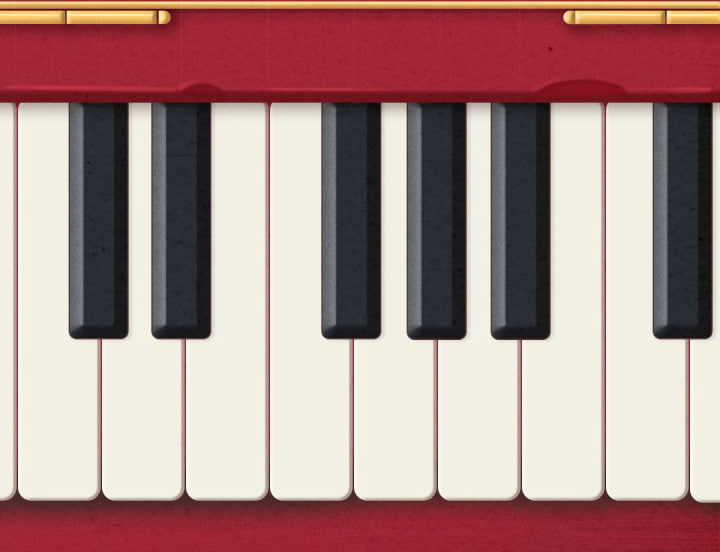
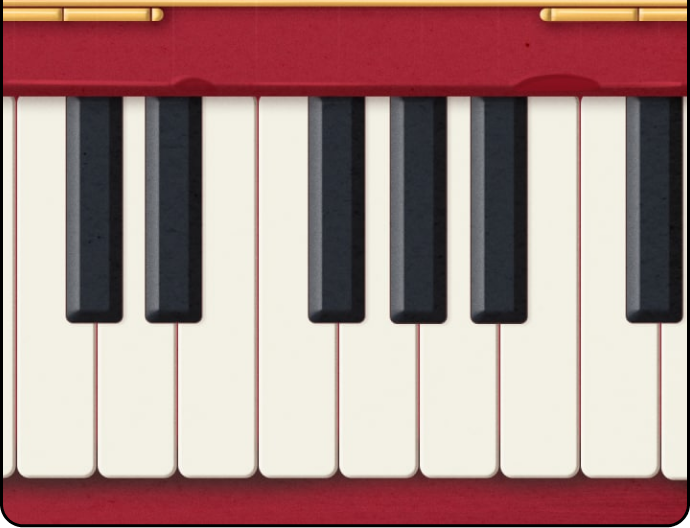
Доработка пианины + замена стартов и ендингов

diff --git a/games/game3.js b/games/game3.js
@@ -6,7 +6,7 @@ const createGame = (config = {}) => {
   var buttons = [];
   var btns = [];
   var btnsSound = [];
-  var startGood = 424;
+  var startGood = 325;
   var endGood = 486;
   var imgs = ['select1', 'select2', 'select3', 'fail_text', 'win_text'];
   var startPos = {
@@ -20,15 +20,14 @@ const createGame = (config = {}) => {
       'header_num_2': { 'x': 157, 'y': 279, 'depth': 0, 'rotation': 0, 'flip': false },
       'header_num_3': { 'x': 182, 'y': 279, 'depth': 0, 'rotation': 0, 'flip': false },
       'header_percent': { 'x': 215, 'y': 279, 'depth': 0, 'rotation': 0, 'flip': false },
-      'btn1': { 'x': 98, 'y': 645, 'depth': 2, 'rotation': 0, 'flip': false, 'img': 'select1' },
-      'btn2': { 'x': 146, 'y': 645, 'depth': 2, 'rotation': 0, 'flip': false, 'img': 'select2' },
-      'btn3': { 'x': 201, 'y': 645, 'depth': 2, 'rotation': 0, 'flip': false, 'img': 'select3' },
-      'btn4': { 'x': 254, 'y': 645, 'depth': 2, 'rotation': 0, 'flip': false, 'img': 'select1' },
-      'btn5': { 'x': 303, 'y': 645, 'depth': 2, 'rotation': 0, 'flip': false, 'img': 'select2' },
+      'btn1': { 'x': 103, 'y': 645, 'depth': 2, 'rotation': 0, 'flip': false, 'img': 'select1' },
+      'btn2': { 'x': 154, 'y': 645, 'depth': 2, 'rotation': 0, 'flip': false, 'img': 'select2' },
+      'btn3': { 'x': 203, 'y': 645, 'depth': 2, 'rotation': 0, 'flip': false, 'img': 'select3' },
+      'btn4': { 'x': 256, 'y': 645, 'depth': 2, 'rotation': 0, 'flip': false, 'img': 'select1' },
+      'btn5': { 'x': 306, 'y': 645, 'depth': 2, 'rotation': 0, 'flip': false, 'img': 'select2' },
       'btn6': { 'x': 356, 'y': 645, 'depth': 2, 'rotation': 0, 'flip': false, 'img': 'select2' },
-      'btn7': { 'x': 411, 'y': 645, 'depth': 2, 'rotation': 0, 'flip': false, 'img': 'select3' },
-      'btn8': { 'x': 464, 'y': 645, 'depth': 2, 'rotation': 0, 'flip': false, 'img': 'select1' }
-
+      'btn7': { 'x': 406, 'y': 645, 'depth': 2, 'rotation': 0, 'flip': false, 'img': 'select3' },
+      'btn8': { 'x': 453, 'y': 645, 'depth': 2, 'rotation': 0, 'flip': false, 'img': 'select1' }
     }
   };
 
@@ -104,9 +103,6 @@ const createGame = (config = {}) => {
       btnsSound.push(that.sound.add('note' + i.toString()));
     }
 
-    startGood = 440 - 110 * startPos.common.scale / 2 * 1.05;
-    endGood = 440 + 110 * startPos.common.scale / 2 * 1.05;
-
     arrange = that.sound.add('arrange');
     wrong = that.sound.add('wrong');
 
@@ -170,7 +166,7 @@ const createGame = (config = {}) => {
   }
 
   function startGame() {
-    back = that.add.image(285, 400, null);
+    back = that.add.image(285, 407, null);
     back.setScale(0.625);
     piano = that.add.image(285, 627.5, null);
     piano.setScale(0.625);
@@ -199,7 +195,7 @@ const createGame = (config = {}) => {
   function createBar() {
     var speed = 110 * 0.625 * 4;
     if (music[musicIdx] > 0) {
-      var bar = that.physics.add.image(96 + 52 * (music[musicIdx] - 1), -50, 'bar');
+      var bar = that.physics.add.image(104 + 50 * (music[musicIdx] - 1), -50, 'bar');
 
       bar.depth = 1;
       bar.state = 'active';
@@ -349,7 +345,7 @@ const createGame = (config = {}) => {
   }
 
   function onBtn(btn) {
-    var oneBars = bars.filter(item => Math.abs(item.x - btn.x) < 10 && item.state == 'active');
+    var oneBars = bars.filter(item => Math.abs(item.x - btn.x) < 10  && item.state == 'active');
 
 
     if (oneBars
